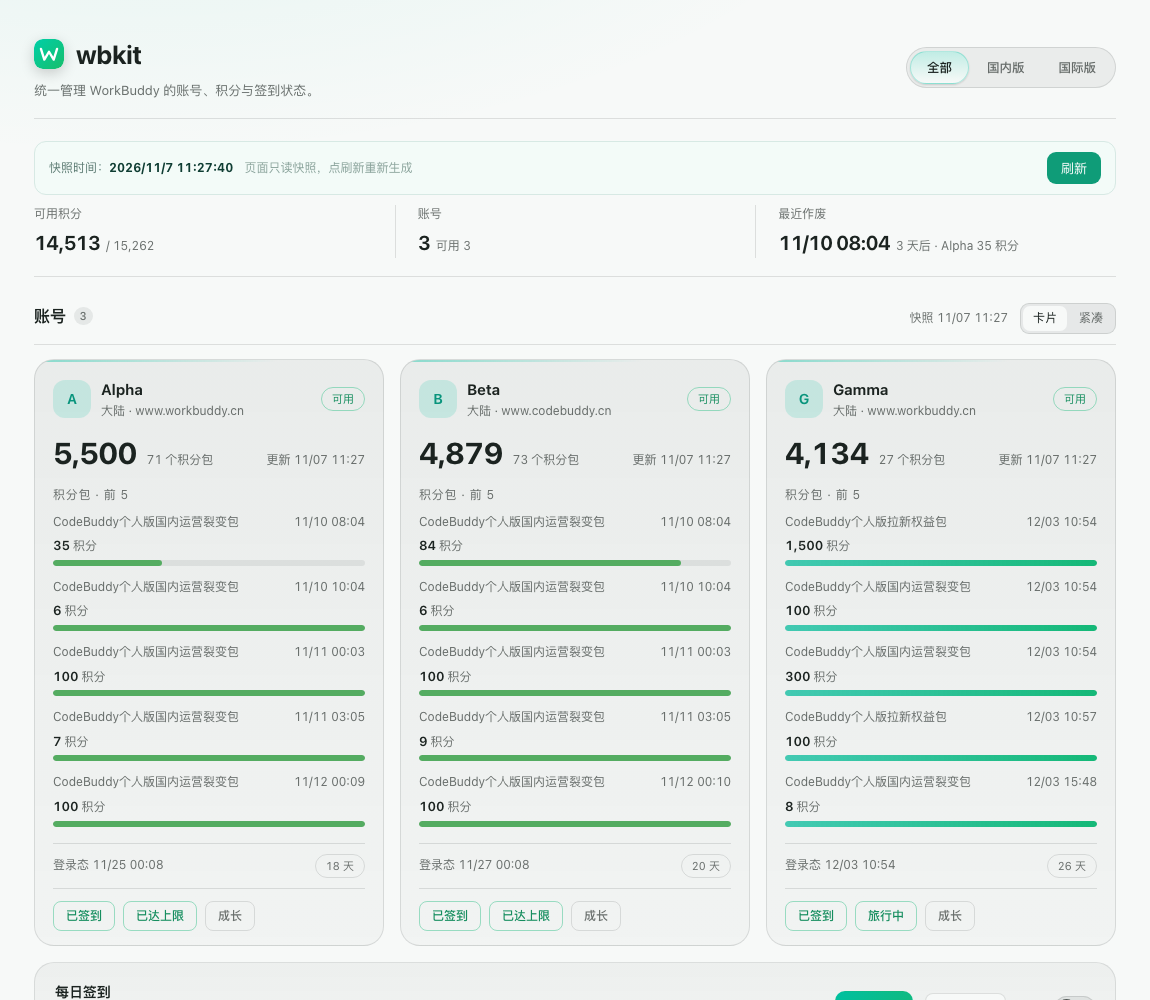
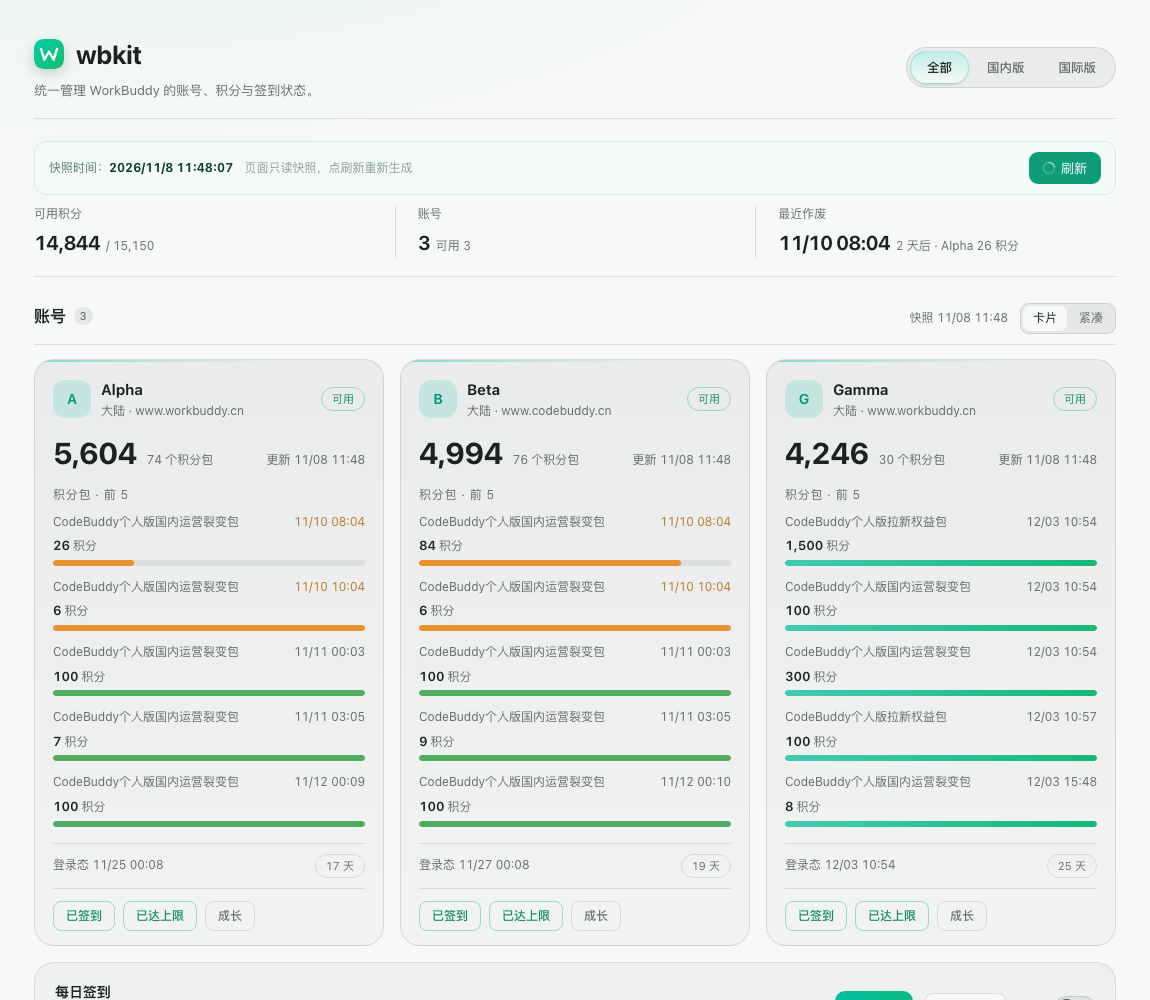
feat(page): 刷新按钮加载态 + 状态点悬停提示 (v0.5.8)

diff --git a/page/style.css b/page/style.css
@@ -312,7 +312,10 @@ code {
 .density-btn.on { background: var(--bg); color: var(--fg); }
 
 /* 紧凑模式：一行一个账号 */
-.rows { display: grid; gap: 0; border: 1px solid var(--line); border-radius: var(--radius); overflow: hidden; }
+/* 不用 overflow:hidden —— 状态点的悬停提示要能出界，首尾行自己带圆角 */
+.rows { display: grid; gap: 0; border: 1px solid var(--line); border-radius: var(--radius); }
+.rows > .crow:first-child { border-radius: calc(var(--radius) - 1px) calc(var(--radius) - 1px) 0 0; }
+.rows > .crow:last-of-type { border-radius: 0 0 calc(var(--radius) - 1px) calc(var(--radius) - 1px); }
 .crow {
   display: grid;
   grid-template-columns: minmax(140px, 1fr) 320px auto auto;
@@ -581,3 +584,33 @@ body {
 .crow[aria-expanded="true"] .c-chevron { transform: rotate(90deg); }
 .c-detail-acts { display: flex; gap: 8px; margin-top: 12px; padding-top: 10px; border-top: 1px solid var(--line); }
 /* 动作按钮已移入各分区标题右侧（.c-act） */
+
+/* 刷新按钮的加载态：细环 spinner，颜色跟着按钮文字走（深浅主题都不用单独调） */
+.spin {
+  display: inline-block; width: 12px; height: 12px; flex: none;
+  border-radius: 50%;
+  border: 1.5px solid color-mix(in srgb, currentColor 32%, transparent);
+  border-top-color: currentColor;
+  animation: wb-spin 0.8s linear infinite;
+}
+@keyframes wb-spin { to { transform: rotate(360deg); } }
+@media (prefers-reduced-motion: reduce) { .spin { animation-duration: 2.4s; } }
+
+/* 状态点的悬停提示：纯 CSS，替代原生 title（要等一秒、还是系统灰框） */
+.c-dot { position: relative; }
+.c-dot::after {
+  content: attr(data-tip);
+  position: absolute; bottom: calc(100% + 9px); left: 50%;
+  transform: translateX(-50%) translateY(3px);
+  padding: 4px 8px; border-radius: 7px;
+  background: var(--bg);
+  border: 1px solid var(--line);
+  box-shadow: 0 6px 18px rgba(0, 0, 0, 0.18);
+  color: var(--fg);
+  font: 500 11px/1.35 var(--magpie-font, -apple-system, system-ui, sans-serif);
+  white-space: nowrap;
+  opacity: 0; pointer-events: none; z-index: 8;
+  transition: opacity 0.14s ease, transform 0.14s ease;
+}
+.c-dot:hover::after { opacity: 1; transform: translateX(-50%) translateY(0); }
+@media (prefers-reduced-motion: reduce) { .c-dot::after { transition: none; } }

diff --git a/page/servicebar.js b/page/servicebar.js
@@ -22,11 +22,22 @@
   bar.innerHTML = `
     <div style="font-size:12px;color:#5b7a72">快照时间：<b data-gen style="color:#0f3d33">${escapeHtml(generated)}</b>
       <span style="margin-left:8px;color:#8aa39b">页面只读快照，点刷新重新生成</span></div>
-    <button data-refresh style="border:0;border-radius:9px;background:#0f9c78;color:#fff;padding:7px 14px;font-size:13px;cursor:pointer">刷新</button>`
+    <button data-refresh style="border:0;border-radius:9px;background:#0f9c78;color:#fff;padding:7px 14px;font-size:13px;cursor:pointer;display:inline-flex;align-items:center;gap:6px"><span class="spin" data-spin hidden></span><span data-label>刷新</span></button>`
   host.insertAdjacentElement('afterend', bar)
   const genEl = bar.querySelector('[data-gen]')
+  const btn = bar.querySelector('[data-refresh]')
+  const spin = bar.querySelector('[data-spin]')
+  const label = bar.querySelector('[data-label]')
+  const setBusy = (busy) => {
+    if (spin) spin.hidden = !busy
+    if (label) label.textContent = busy ? '刷新中…' : '刷新'
+    if (btn) btn.disabled = busy
+    if (btn) btn.style.opacity = busy ? '0.75' : ''
+    if (btn) btn.style.cursor = busy ? 'default' : 'pointer'
+  }
 
-  bar.querySelector('[data-refresh]')?.addEventListener('click', async () => {
+  btn?.addEventListener('click', async () => {
+    setBusy(true)
     try {
       if (genEl) genEl.textContent = '刷新中…（重载插件并重生成快照）'
       if (mp?.options?.set) {
@@ -37,6 +48,7 @@
         try { location.reload() } catch {}
       }
     } catch (e) {
+      setBusy(false)
       if (genEl) genEl.textContent = '刷新失败：' + (e?.message ?? e)
     }
   })

diff --git a/page/index.html b/page/index.html
@@ -4,12 +4,12 @@
     <meta charset="utf-8" />
     <meta name="viewport" content="width=device-width, initial-scale=1" />
     <title>wbkit</title>
-    <link rel="stylesheet" href="style.css?v=20261104-6-0-5" />
+    <link rel="stylesheet" href="style.css?v=20261108-1" />
     <script src="_magpie/bridge.js"></script>
     <script src="data.js"></script>
-    <script src="app.js?v=20261104-6-0-5" defer></script>
-    <script src="panels.js?v=20261104-6-0-5" defer></script>
-    <script src="servicebar.js?v=20261104-6-0-5" defer></script>
+    <script src="app.js?v=20261108-1" defer></script>
+    <script src="panels.js?v=20261108-1" defer></script>
+    <script src="servicebar.js?v=20261108-1" defer></script>
   </head>
   <body>
     <header class="top">

diff --git a/page/app.js b/page/app.js
@@ -293,7 +293,7 @@ function compactRow(a, initialOpen = false) {
 
   // 四个状态点：健康 / 签到 / 成长 / 旅行；绿=正常或已完成，橙=需注意，灰=未开始/未知
   const dots = el('div', 'c-dots')
-  const addDot = (cls, title) => { const d = el('span', `c-dot ${cls}`); d.title = title; dots.append(d) }
+  const addDot = (cls, title) => { const d = el('span', `c-dot ${cls}`); d.title = title; d.dataset.tip = title; dots.append(d) }
   addDot(a.error || a.health === 'error' ? 'warn' : a.health === 'ok' ? 'ok' : 'warn', a.error ? '登录异常' : a.health === 'ok' ? '可用' : a.healthNote || '待实测')
   const signed = checkedToday(a)
   addDot(signed ? 'ok' : '', signed ? '已签到' : '未签到')

diff --git a/CHANGELOG.md b/CHANGELOG.md
@@ -1,5 +1,11 @@
 # 更新记录
 
+## v0.5.8
+
+- 刷新按钮加了加载态：细环 spinner + 文案变「刷新中…」，点击期间按钮置灰不可重复点。环的颜色跟着按钮文字走（`currentColor`），深浅主题都不用单独调
+- 折叠行的 4 个状态点（健康 / 签到 / 成长 / 旅行）悬停出提示，替代原来要等一秒的原生 `title`。纯 CSS 实现，无 JS、无依赖
+- `.rows` 去掉 `overflow: hidden`（否则提示浮层会被裁掉），首尾行自己带圆角，视觉不变
+
 ## v0.5.7
 
 **修：宿主新建的账号（只有令牌、没有 `uid`）签到与旅行状态互相覆盖**

diff --git a/README.md b/README.md
@@ -3,7 +3,7 @@
 **补在社区插件后面的那一半。**
 供应商、登录、请求签名与余额交给 [`@magpie-community/opencode-workbuddy-auth`](https://github.com/magpie-community/plugins/tree/main/packages/workbuddy)；wbkit 补上它没有的：账号池、每日签到补位、猫猫旅行、批量成长任务、模型目录、官方用量，以及一个能一眼看完所有账号的页面。
 
-> 版本 `0.5.7` · magpie 插件 · 零 npm 依赖 · MIT
+> 版本 `0.5.8` · magpie 插件 · 零 npm 依赖 · MIT
 
 ```
 @magpie-community/opencode-workbuddy-auth   →  WorkBuddy 供应商 / 登录 / 余额
